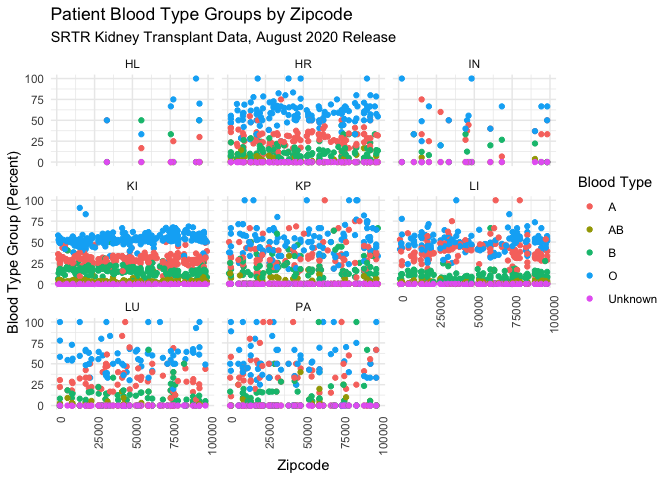
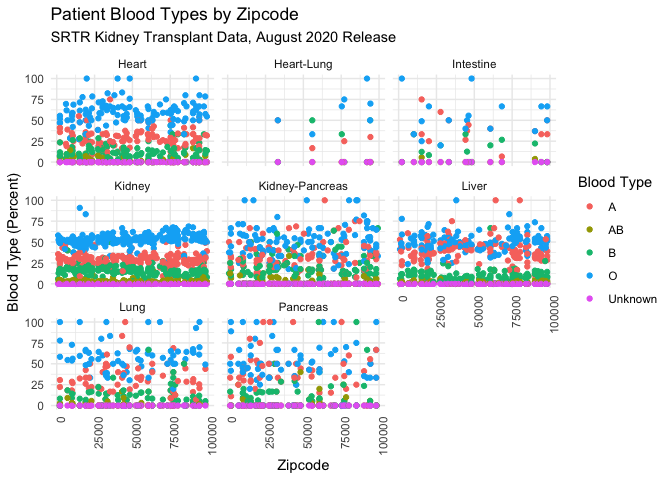
Updated plots.

diff --git a/SummaryPlotsMS.md b/SummaryPlotsMS.md
@@ -61,7 +61,7 @@ df_all_age = rbind(df_one_age, df_two_age, df_three_age, df_four_age, df_five_ag
 I will plot the age dataframes.
 
 ``` r
-plot = df_all_age %>% ggplot(aes(x=zipcode, y =age_category_percent, color = age_category)) + geom_point() + 
+plot = df_all_age %>% mutate(org = str_replace(org, "HR", "Heart"), org = str_replace(org, "HL", "Heart-Lung"), org = str_replace(org, "IN", "Intestine"), org = str_replace(org, "KI", "Kidney"), org = str_replace(org, "KP", "Kidney-Pancreas"), org = str_replace(org, "LI", "Liver"), , org = str_replace(org, "LU", "Lung"), org = str_replace(org, "PA", "Pancreas")) %>% ggplot(aes(x=zipcode, y =age_category_percent, color = age_category)) + geom_point() + 
   labs(
     title = "Patient Age Groups by Zipcode", subtitle = phrase,
     x = "Zipcode",
@@ -89,7 +89,7 @@ df_all_gender = rbind(df_one_gender, df_two_gender, df_three_gender, df_four_gen
 I will plot the gender dataframes.
 
 ``` r
-plot = df_all_gender %>% ggplot(aes(x=zipcode, y =gender_category_percent, color = gender_category)) + geom_point()+ 
+plot = df_all_gender %>% mutate(org = str_replace(org, "HR", "Heart"), org = str_replace(org, "HL", "Heart-Lung"), org = str_replace(org, "IN", "Intestine"), org = str_replace(org, "KI", "Kidney"), org = str_replace(org, "KP", "Kidney-Pancreas"), org = str_replace(org, "LI", "Liver"), , org = str_replace(org, "LU", "Lung"), org = str_replace(org, "PA", "Pancreas")) %>% ggplot(aes(x=zipcode, y =gender_category_percent, color = gender_category)) + geom_point()+ 
   labs(
     title = "Patient Gender Groups by Zipcode", subtitle = phrase,
     x = "Zipcode",
@@ -119,7 +119,7 @@ df_all_demographics = rbind(df_one_demographics, df_two_demographics, df_three_d
 I will plot the demographics dataframes.
 
 ``` r
-plot = df_all_demographics %>% ggplot(aes(x=zipcode, y =race_category_percent, color = race_category)) + geom_point() + theme_minimal() + 
+plot = df_all_demographics %>% mutate(org = str_replace(org, "HR", "Heart"), org = str_replace(org, "HL", "Heart-Lung"), org = str_replace(org, "IN", "Intestine"), org = str_replace(org, "KI", "Kidney"), org = str_replace(org, "KP", "Kidney-Pancreas"), org = str_replace(org, "LI", "Liver"),  org = str_replace(org, "LU", "Lung"), org = str_replace(org, "PA", "Pancreas")) %>% ggplot(aes(x=zipcode, y =race_category_percent, color = race_category)) + geom_point() + theme_minimal() + 
   labs(
     title = "Patient Demographics by Zipcode", subtitle = phrase,
     x = "Zipcode",
@@ -149,11 +149,11 @@ df_all_blood_type = rbind(df_one_blood_type, df_two_blood_type, df_three_blood_t
 I will plot the demographics dataframes.
 
 ``` r
-plot = df_all_blood_type %>% ggplot(aes(x=zipcode, y =blood_type_category_percent, color = blood_type_category)) + geom_point()+ 
+plot = df_all_blood_type %>%  mutate(org = str_replace(org, "HR", "Heart"), org = str_replace(org, "HL", "Heart-Lung"), org = str_replace(org, "IN", "Intestine"), org = str_replace(org, "KI", "Kidney"), org = str_replace(org, "KP", "Kidney-Pancreas"), org = str_replace(org, "LI", "Liver"), org = str_replace(org, "LU", "Lung"), org = str_replace(org, "PA", "Pancreas")) %>% ggplot(aes(x=zipcode, y =blood_type_category_percent, color = blood_type_category)) + geom_point()+ 
   labs(
-    title = "Patient Blood Type Groups by Zipcode", subtitle = "SRTR Kidney Transplant Data, August 2020 Release",
+    title = "Patient Blood Types by Zipcode", subtitle = "SRTR Kidney Transplant Data, August 2020 Release",
     x = "Zipcode",
-    y = "Blood Type Group (Percent)", color = "Blood Type"
+    y = "Blood Type (Percent)", color = "Blood Type"
   ) + theme_minimal() + scale_color_hue(labels = c("A", "AB", "B", "O", "Unknown")) + theme(axis.text.x=element_text(angle=90,hjust=1)) + facet_wrap(~org)
 print(plot)
 ```
@@ -161,3 +161,7 @@ print(plot)
     ## Warning: Removed 105 rows containing missing values (geom_point).
 
 ![](SummaryPlotsMS_files/figure-gfm/unnamed-chunk-9-1.png)<!-- -->
+
+``` r
+png('blood_type_summary.png')
+```
